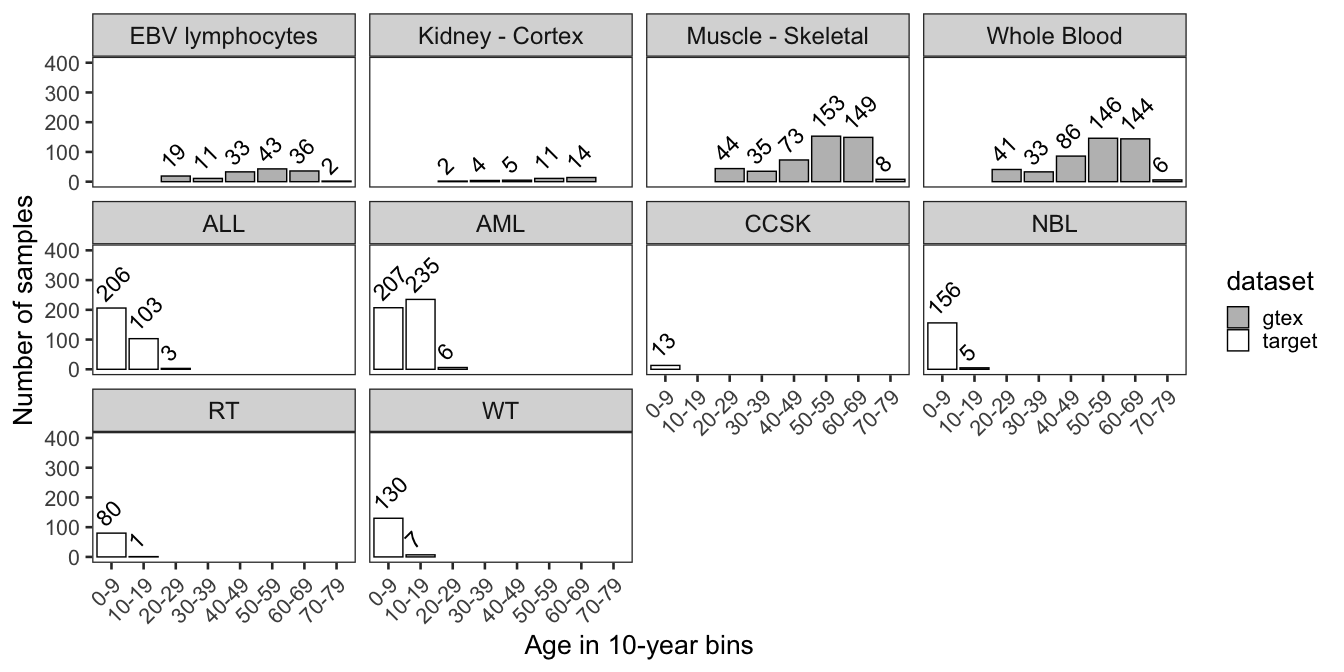
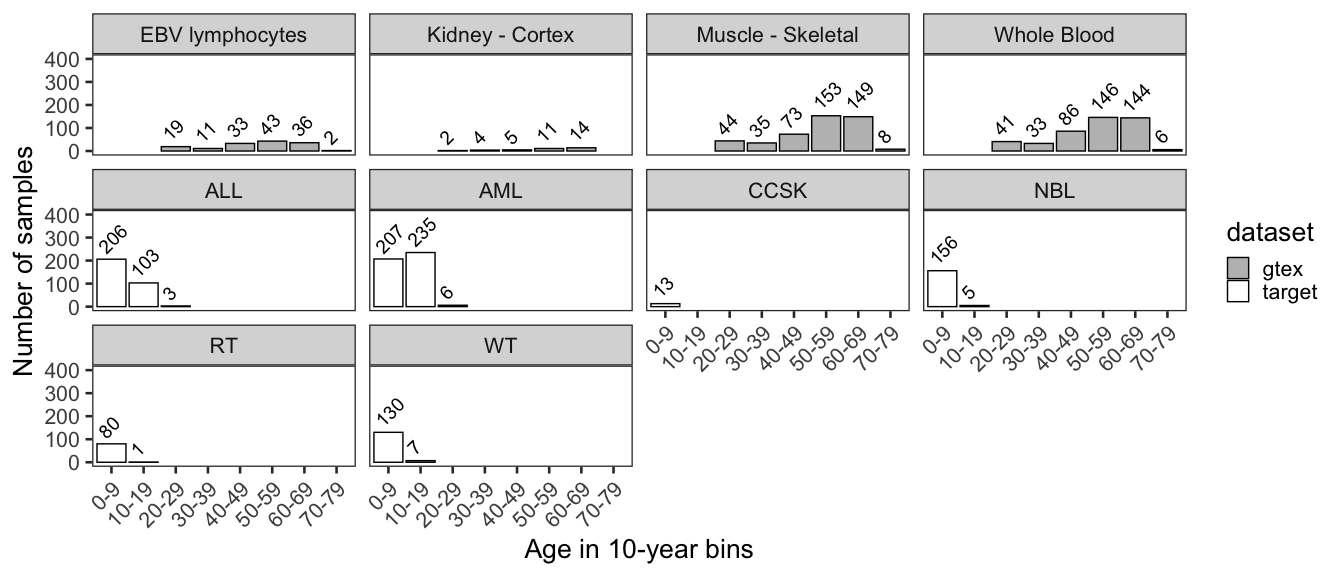
add markdown and updated plots with rel() sizes

Changed region(s): [[0.0, 0.0, 0.9062, 1.0], [0.9062, 0.375, 1.0, 0.5312], [0.6875, 0.4062, 0.7188, 0.5]]

diff --git a/notebooks/compendium_summary/compendium_v1_summary.md b/notebooks/compendium_summary/compendium_v1_summary.md
@@ -1,6 +1,6 @@
 # Summary of samples on splice compendium v1
 Cindy Liang (celiang@ucsc.edu)
-2026-08-12
+2026-08-13
 
 ## Introduction
 
@@ -709,7 +709,7 @@ ggplot(cleaned_target_df, aes(y = plot_tissue_type, fill = plot_tissue_type)) +
     aes(label = paste0(after_stat(count))), 
     hjust = -0.1,
     vjust = 0.5,
-    size = global_size - 14
+    size = rel(5)
     ) +
   scale_fill_manual(values = tissue_palette) +
   theme(legend.position = "none")
@@ -745,7 +745,7 @@ ggplot(for_summary_gtex_df, aes(y = plot_tissue_type, fill = plot_tissue_type)) 
     aes(label = paste0(after_stat(count))), 
     hjust = -0.1,
     vjust = 0.5,
-    size = global_size - 14
+    size = rel(5)
   ) +
   scale_fill_manual(values = tissue_palette) +
   # remove legend
@@ -768,6 +768,16 @@ Figure 2
 # make bar plot of target sample distribution
 ggplot(for_summary_compendium_df, aes(x = age_in_years, fill = dataset)) +
   geom_bar(color = "black", linewidth = 0.5) +
+  # add N observations to bars
+  geom_text(
+    # count number of observations in each tissue type
+    stat = "count",
+    aes(label = paste0(after_stat(count))), 
+    hjust = 0,
+    vjust = -0.5,
+    size = rel(5),
+    angle = 45
+  ) +
   labs(
     x = "Age in 10-year bins", 
     y = "Number of samples"
@@ -778,23 +788,13 @@ ggplot(for_summary_compendium_df, aes(x = age_in_years, fill = dataset)) +
   theme(
     # rotate x axis labels
     axis.text.x = element_text(angle = 45, hjust = 1),
-    # make facet labels bigger
-    strip.text = element_text(size = rel(0.9))
-  ) +
+    # make facet labels smaller
+    strip.text = element_text(size = rel(0.8))
+    ) +
   facet_wrap(
     ~ plot_tissue_type,
     ncol = 4,
     labeller = label_wrap_gen(width = 20)) +
-  # add N observations to bars
-  geom_text(
-    # count number of observations in each tissue type
-    stat = "count",
-    aes(label = paste0(after_stat(count))), 
-    hjust = 0,
-    vjust = -0.5,
-    size = global_size - 14,
-    angle = 45
-  )  +
   scale_fill_manual(values = dataset_palette)
 ```
 
